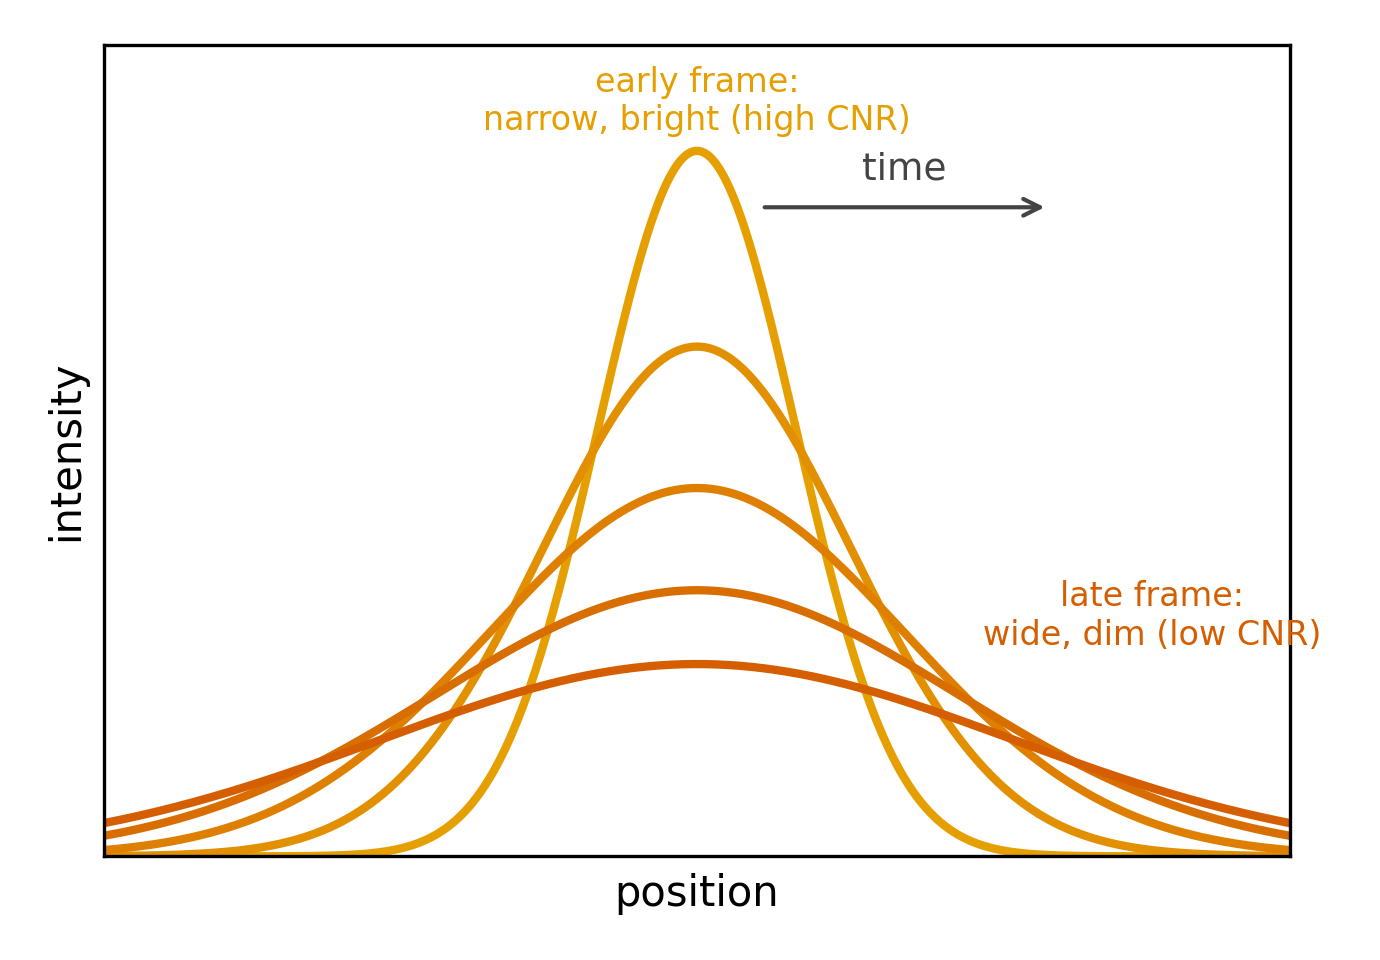
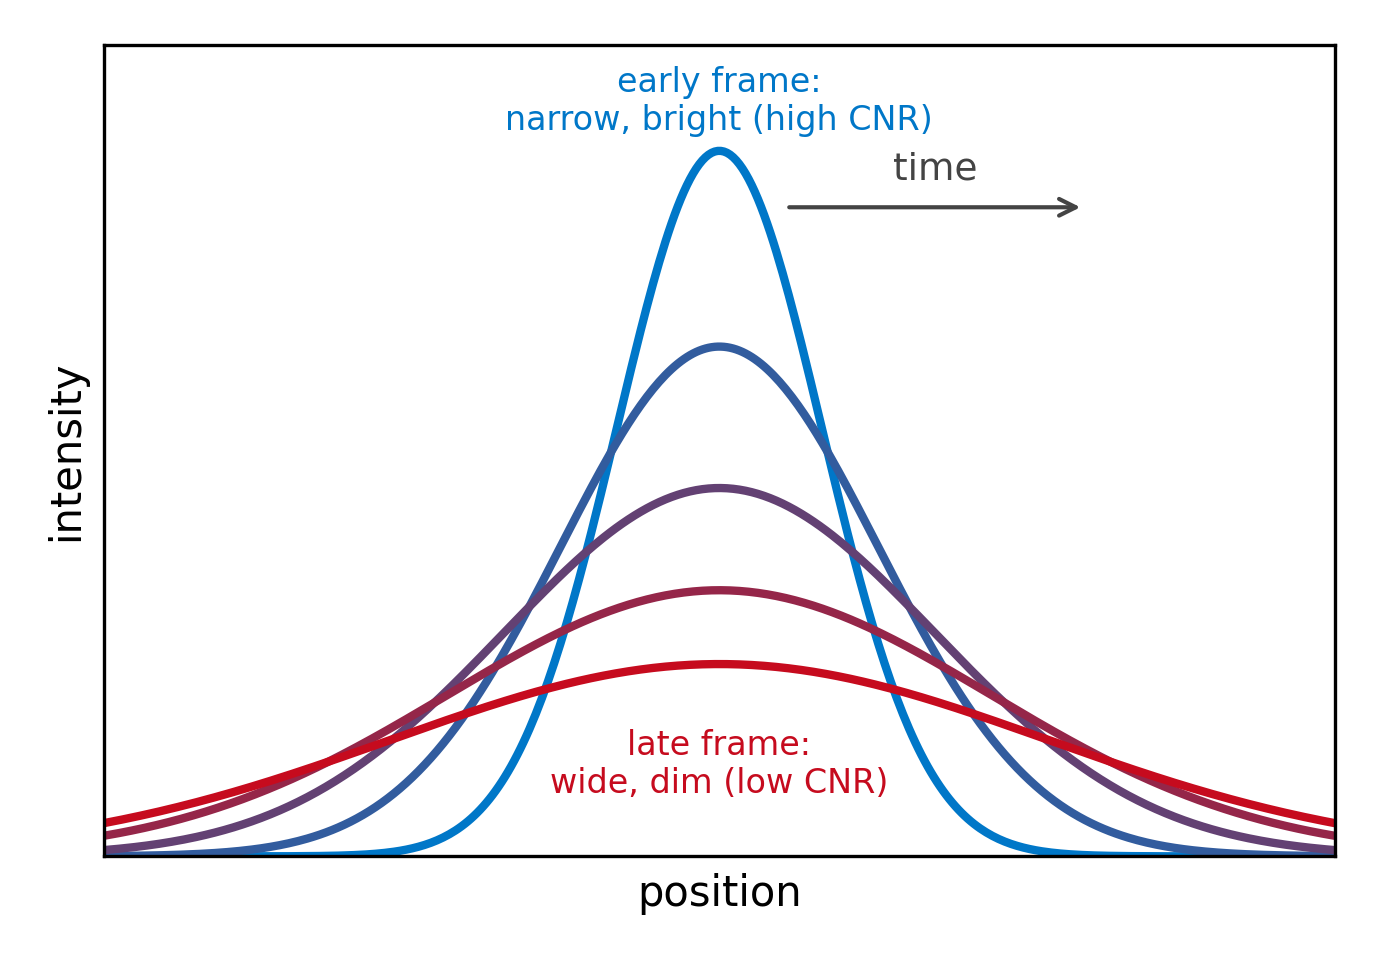
measurement-schematic: blue-to-red Spanish-flag gradient, transparent margin (opaque plot area), late-frame label to centre-bottom

diff --git a/illustrations/measurement-schematic/build_measurement_schematic.py b/illustrations/measurement-schematic/build_measurement_schematic.py
@@ -26,10 +26,10 @@ from matplotlib.colors import to_rgb  # noqa: E402
 
 from weighting_wall.simulate import gaussian  # noqa: E402
 
-# Poster palette (Okabe-Ito, colourblind-safe): gold = early/bright frame,
-# red = late/dim frame; the gradient between them carries the time axis.
-ROLE2 = "#E69F00"   # flag gold   -- early frame (narrow, bright, high CNR)
-ROLE4 = "#D55E00"   # spanish red -- late frame (wide, dim, low CNR)
+# Spanish-flag palette (see plot_style.md): the gradient runs blue (high CNR,
+# early frame) to red (low CNR, late frame); the blend carries the time axis.
+ROLE2 = "#0077c8"   # spanish-flag blue -- early frame (narrow, bright, high CNR)
+ROLE4 = "#c60b1e"   # spanish-flag red  -- late frame  (wide, dim, low CNR)
 
 OUT = Path(__file__).resolve().parent / "measurement_schematic.png"
 
@@ -56,8 +56,10 @@ def build() -> Path:
     ax.text(2.1, 0.96, "time", color="#444", fontsize=9, ha="center")
     ax.text(0.0, 1.02, "early frame:\nnarrow, bright (high CNR)",
             color=ROLE2, fontsize=8, ha="center", va="bottom")
-    ax.text(4.6, 0.30, "late frame:\nwide, dim (low CNR)",
-            color=ROLE4, fontsize=8, ha="center")
+    # Late-frame label sits in the centre-bottom gap, below the peaks, so it
+    # clears the profile curves rather than overlapping them.
+    ax.text(0.0, 0.08, "late frame:\nwide, dim (low CNR)",
+            color=ROLE4, fontsize=8, ha="center", va="bottom")
     ax.set_xlabel("position")
     ax.set_ylabel("intensity")
     ax.set_xlim(x[0], x[-1])             # curves run to the frame edges
@@ -66,6 +68,11 @@ def build() -> Path:
     ax.set_xticks([])
     ax.set_yticks([])
     fig.tight_layout()
+    # Transparent outside the plot only (plot_style.md): the figure margin
+    # composites onto the poster background, while the axes patch stays opaque
+    # white. Do not pass transparent=True -- that would clear the axes patch too.
+    fig.patch.set_alpha(0.0)
+    ax.set_facecolor("white")
     fig.savefig(OUT, dpi=300)
     plt.close(fig)
     return OUT
